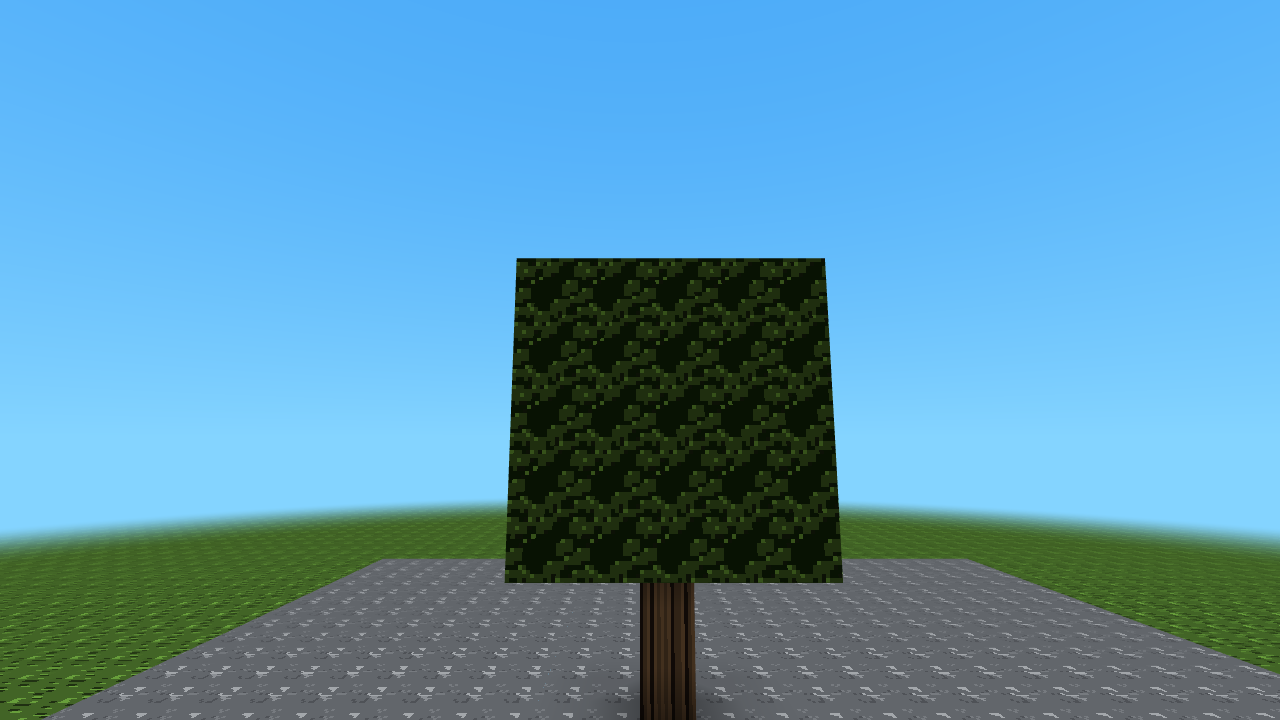
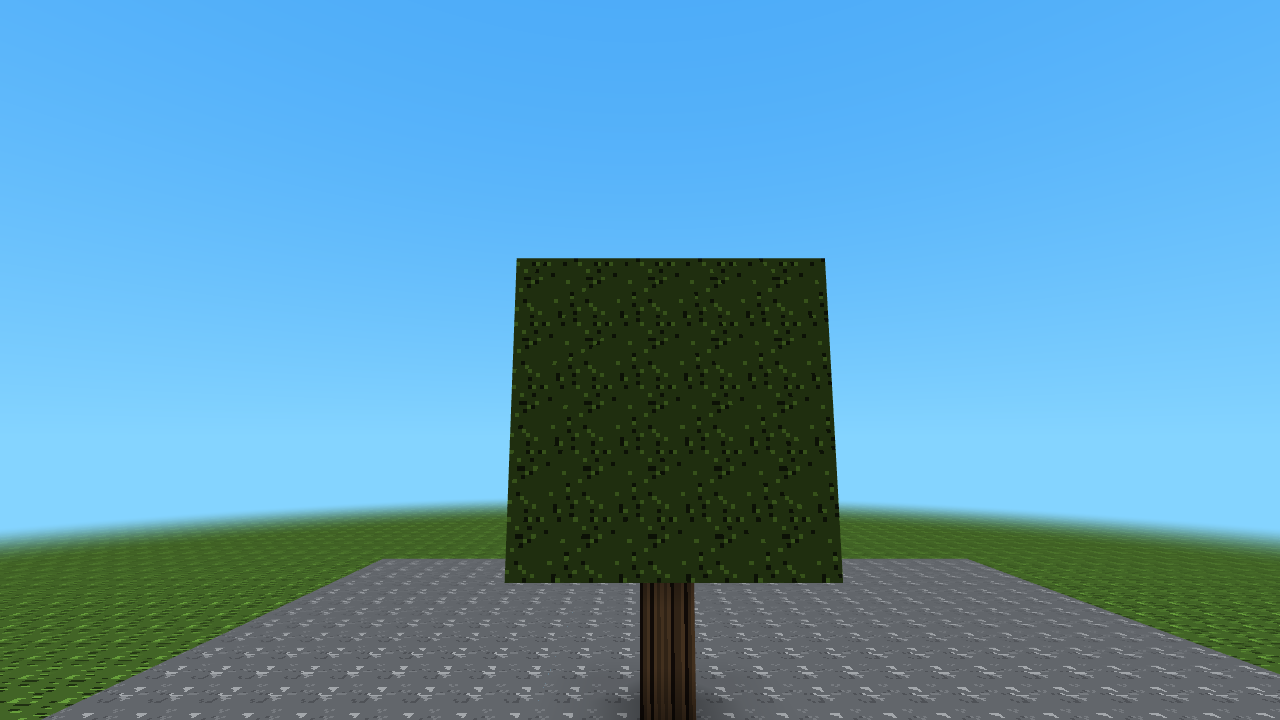
M08c: pack sway masks as uvec4 and fill fast leaves with their own body colour
Claude-Session: https://claude.ai/code/session_01DR2TANX6z4XcX2ac2TvxWj

Changed region(s): [[0.375, 0.3361, 0.6562, 0.825]]

diff --git a/src/render/chunk-renderer.ts b/src/render/chunk-renderer.ts
@@ -22,6 +22,13 @@ import { GLWrapper } from './gl';
 import { settings } from '../engine/settings';
 import { BlockRegistry } from '../world/blocks/registry';
 import { TextureAtlas, CELL_SIZE } from './atlas';
+import {
+  atlasTileIndex,
+  buildLeafFills,
+  buildSwayMasks,
+  type LeafFills,
+  type SwayMasks,
+} from './foliage';
 import { SectionMeshData, MeshBucketData } from '../mesh/greedy';
 import { renderStats } from '../debug/api/core';
 import { wireframeEnabled } from '../debug/api/wireframe';
@@ -57,8 +64,8 @@ uniform int u_waterTile;
 uniform int u_lavaTile;
 uniform float u_swayOn;
 uniform float u_windTime;
-uniform uint u_swayLeaf[128];
-uniform uint u_swayPlant[128];
+uniform uvec4 u_swayLeaf[32];
+uniform uvec4 u_swayPlant[32];
 flat out float v_leaf;
 flat out float v_fluid;
 flat out float v_flow;
@@ -104,8 +111,8 @@ void main() {
   }
   worldPos += normal * (fluid ? 0.0 : float((a_word1 >> ${VERTEX_LAYOUT.wallInsetShift}u) & 1u) / 32.0);
   uint swayTile = a_word1 & ${VERTEX_LAYOUT.tileMask}u;
-  bool leaf = !fluid && ((u_swayLeaf[swayTile >> 5u] >> (swayTile & 31u)) & 1u) == 1u;
-  bool plant = !fluid && ((u_swayPlant[swayTile >> 5u] >> (swayTile & 31u)) & 1u) == 1u;
+  bool leaf = !fluid && ((u_swayLeaf[swayTile >> 7u][(swayTile >> 5u) & 3u] >> (swayTile & 31u)) & 1u) == 1u;
+  bool plant = !fluid && ((u_swayPlant[swayTile >> 7u][(swayTile >> 5u) & 3u] >> (swayTile & 31u)) & 1u) == 1u;
   v_leaf = leaf ? 1.0 : 0.0;
   if (u_swayOn > 0.0 && (leaf || plant)) {
     // Wind: a function of world position and the shared animation clock, so blocks sharing a corner
@@ -175,6 +182,10 @@ flat in float v_flow;
 in vec3 v_normal;
 uniform float u_fluidTime;
 uniform int u_fastLeaves;
+uniform int u_leafFillCount;
+uniform int u_leafFillTile[16];
+uniform vec3 u_leafFillColor[16];
+uniform float u_cellSize;
 uniform highp sampler2D u_sceneDepth;
 uniform mat4 u_inverseViewProj;
 uniform vec2 u_viewport;
@@ -221,8 +232,15 @@ void main() {
   vec2 tileUV = clamp(v_tileOrigin + fract(uv) * tileSize, v_tileOrigin + halfTexel, v_tileOrigin + tileSize - halfTexel);
   vec4 texColor = textureGrad(u_atlasSampler, tileUV, dFdx(uv) * tileSize, dFdy(uv) * tileSize);
   if (u_fastLeaves == 1 && v_leaf > 0.5) {
-    // Fast leaves are opaque cubes: gaps in the sprite become a dark leaf colour.
-    texColor = texColor.a < 0.5 ? vec4(0.11, 0.17, 0.08, 1.0) : vec4(texColor.rgb, 1.0);
+    // Fast leaves are opaque cubes: gaps in the sprite take the leaf texture's own mid-green, which
+    // the tint below multiplies like the rest of the leaf.
+    if (texColor.a < 0.5) {
+      vec2 cell = floor((v_tileOrigin * u_atlasSize - 4.0) / u_cellSize + 0.5);
+      int tile = int(cell.y) * int(u_atlasSize.x / u_cellSize) + int(cell.x);
+      vec3 fill = vec3(0.17, 0.30, 0.13);
+      for (int i = 0; i < 16; i++) if (i < u_leafFillCount && u_leafFillTile[i] == tile) fill = u_leafFillColor[i];
+      texColor = vec4(fill, 1.0);
+    } else texColor = vec4(texColor.rgb, 1.0);
   } else if (u_isCutout == 1 && texColor.a < 0.5) discard;
   // Grass side alpha selects the tinted fringe; its dirt base stays untinted and opaque.
   vec3 tint = mix(v_tint, mix(vec3(1.0), v_tint, texColor.a), v_grassSide);
@@ -333,8 +351,15 @@ export class ChunkRenderer {
   private locWindTime: WebGLUniformLocation;
   private locSwayLeaf: WebGLUniformLocation;
   private locSwayPlant: WebGLUniformLocation;
+  private locLeafFillCount: WebGLUniformLocation;
+  private locLeafFillTile: WebGLUniformLocation;
+  private locLeafFillColor: WebGLUniformLocation;
   private locFastLeaves: WebGLUniformLocation;
-  private swayMasks: { atlas: TextureAtlas; leaf: Uint32Array; plant: Uint32Array } | null = null;
+  private foliage: {
+    atlas: TextureAtlas;
+    sway: SwayMasks;
+    fills: LeafFills;
+  } | null = null;
   private rainFactor = 0;
   private lightningFlash = 0;
   private skyBrightness = 1;
@@ -428,6 +453,9 @@ export class ChunkRenderer {
     this.locSwayLeaf = gl.getUniformLocation(this.program, 'u_swayLeaf')!;
     this.locSwayPlant = gl.getUniformLocation(this.program, 'u_swayPlant')!;
     this.locFastLeaves = gl.getUniformLocation(this.program, 'u_fastLeaves')!;
+    this.locLeafFillCount = gl.getUniformLocation(this.program, 'u_leafFillCount')!;
+    this.locLeafFillTile = gl.getUniformLocation(this.program, 'u_leafFillTile')!;
+    this.locLeafFillColor = gl.getUniformLocation(this.program, 'u_leafFillColor')!;
     const fields = [
       'locFluidTime',
       'locWaterTile',
@@ -463,6 +491,9 @@ export class ChunkRenderer {
       'locWindTime',
       'locSwayLeaf',
       'locSwayPlant',
+      'locLeafFillCount',
+      'locLeafFillTile',
+      'locLeafFillColor',
       'locFastLeaves',
     ];
     this.programLocations = this.programs.map((program) =>
@@ -749,27 +780,16 @@ export class ChunkRenderer {
     if (bucketMesh.lineEbo) this.glWrapper.deleteBuffer(bucketMesh.lineEbo);
   }
 
-  /** Bit masks over atlas tiles of leaves and swaying plants, rebuilt only when the atlas changes. */
-  private getSwayMasks(atlas: TextureAtlas, tileIndex: (name: string) => number) {
-    if (this.swayMasks?.atlas === atlas) return this.swayMasks;
+  /** Sway masks and fast-leaf fill colours, rebuilt only when the atlas changes. */
+  private getFoliage(atlas: TextureAtlas) {
+    if (this.foliage?.atlas === atlas) return this.foliage;
     const registry = BlockRegistry.getInstance();
-    const leaf = new Uint32Array(128);
-    const plant = new Uint32Array(128);
-    for (const id of registry.getAllBlockIds()) {
-      const def = registry.getBlockDefinition(id);
-      if (!def || def.renderLayer !== 'cutout') continue;
-      const target = id.endsWith('_leaves')
-        ? leaf
-        : def.model === 'cross' && id !== 'fire' && id !== 'torch'
-          ? plant
-          : null;
-      const texture = def.textures?.side;
-      if (!target || !texture || !atlas.rects.has(texture)) continue;
-      const tile = tileIndex(texture);
-      target[tile >> 5] = (target[tile >> 5]! | (1 << (tile & 31))) >>> 0;
-    }
-    this.swayMasks = { atlas, leaf, plant };
-    return this.swayMasks;
+    this.foliage = {
+      atlas,
+      sway: buildSwayMasks(registry, atlas),
+      fills: buildLeafFills(registry, atlas),
+    };
+    return this.foliage;
   }
 
   /** Draws one pass (0 opaque, 1 cutout, 2 translucent) over the visible columns gathered by render(). */
@@ -825,19 +845,16 @@ export class ChunkRenderer {
     Object.assign(this, this.programLocations[index]);
     gl.useProgram(this.program);
     gl.uniform1f(this.locFluidTime, this.fluidTime);
-    const tileIndex = (name: string) => {
-      const rect = atlas.rects.get(name)!;
-      return (
-        Math.floor(rect.y / CELL_SIZE) * Math.floor(atlas.width / CELL_SIZE) +
-        Math.floor(rect.x / CELL_SIZE)
-      );
-    };
-    const sway = this.getSwayMasks(atlas, tileIndex);
+    const tileIndex = (name: string) => atlasTileIndex(atlas, name);
+    const { sway, fills } = this.getFoliage(atlas);
     gl.uniform1f(this.locSwayOn, settings.leaves === 'fast' ? 0 : 1);
     gl.uniform1f(this.locWindTime, this.windTime);
-    gl.uniform1uiv(this.locSwayLeaf, sway.leaf);
-    gl.uniform1uiv(this.locSwayPlant, sway.plant);
+    gl.uniform4uiv(this.locSwayLeaf, sway.leaf);
+    gl.uniform4uiv(this.locSwayPlant, sway.plant);
     gl.uniform1i(this.locFastLeaves, settings.leaves === 'fast' ? 1 : 0);
+    gl.uniform1i(this.locLeafFillCount, fills.count);
+    gl.uniform1iv(this.locLeafFillTile, fills.tiles);
+    gl.uniform3fv(this.locLeafFillColor, fills.colors);
     gl.uniform1i(this.locWaterTile, tileIndex('water_0'));
     gl.uniform1i(this.locLavaTile, tileIndex('lava_0'));
     gl.uniform1i(this.locSceneDepth, 4);

diff --git a/src/render/foliage.ts b/src/render/foliage.ts
@@ -1,0 +1,109 @@
+import { TextureAtlas, CELL_SIZE } from './atlas';
+import type { BlockRegistry } from '../world/blocks/registry';
+
+/** Leaf textures that can have their own fast-mode fill colour (fragment uniform arrays are this long). */
+export const MAX_LEAF_FILLS = 16;
+
+/** A colour must cover this share of a leaf's opaque pixels to be its fill colour. */
+const FILL_MIN_SHARE = 0.15;
+
+/** Number of 32-bit words in a sway mask: one bit per atlas tile, 4096 tiles. */
+export const SWAY_MASK_WORDS = 128;
+
+export interface SwayMasks {
+  leaf: Uint32Array;
+  plant: Uint32Array;
+}
+
+export interface LeafFills {
+  /** Atlas tile index of each leaf texture. */
+  tiles: Int32Array;
+  /** rgb in 0..1, three floats per entry. */
+  colors: Float32Array;
+  count: number;
+}
+
+export function atlasTileIndex(atlas: TextureAtlas, name: string): number {
+  const rect = atlas.rects.get(name)!;
+  return (
+    Math.floor(rect.y / CELL_SIZE) * Math.floor(atlas.width / CELL_SIZE) +
+    Math.floor(rect.x / CELL_SIZE)
+  );
+}
+
+/** Bit masks over atlas tiles of leaves and swaying plants (cross-model cutouts except torch and fire). */
+export function buildSwayMasks(registry: BlockRegistry, atlas: TextureAtlas): SwayMasks {
+  const leaf = new Uint32Array(SWAY_MASK_WORDS);
+  const plant = new Uint32Array(SWAY_MASK_WORDS);
+  for (const id of registry.getAllBlockIds()) {
+    const def = registry.getBlockDefinition(id);
+    if (!def || def.renderLayer !== 'cutout') continue;
+    const target = id.endsWith('_leaves')
+      ? leaf
+      : def.model === 'cross' && id !== 'fire' && id !== 'torch'
+        ? plant
+        : null;
+    const texture = def.textures?.side;
+    if (!target || !texture || !atlas.rects.has(texture)) continue;
+    const tile = atlasTileIndex(atlas, texture);
+    target[tile >> 5] = (target[tile >> 5]! | (1 << (tile & 31))) >>> 0;
+  }
+  return { leaf, plant };
+}
+
+/**
+ * The vertex shader reads a mask as `uvec4 mask[32]`: word w sits in vector w >> 2, component w & 3.
+ * The upload is the same contiguous words, so this mirrors the shader's lookup exactly.
+ */
+export function packedMaskHas(mask: Uint32Array, tile: number): boolean {
+  const word = tile >> 5;
+  const vec = word >> 2;
+  const component = word & 3;
+  return ((mask[vec * 4 + component]! >>> (tile & 31)) & 1) === 1;
+}
+
+/**
+ * The colour that replaces see-through pixels of a leaf texture in fast mode: the darkest colour that
+ * covers at least FILL_MIN_SHARE of the opaque pixels, the leaf's own shaded mid-tone rather than a
+ * rare near-black accent. The shader multiplies it by the biome tint like the rest of the leaf.
+ */
+export function buildLeafFills(registry: BlockRegistry, atlas: TextureAtlas): LeafFills {
+  const tiles = new Int32Array(MAX_LEAF_FILLS).fill(-1);
+  const colors = new Float32Array(MAX_LEAF_FILLS * 3);
+  let count = 0;
+  const seen = new Set<string>();
+  for (const id of registry.getAllBlockIds()) {
+    if (!id.endsWith('_leaves')) continue;
+    const texture = registry.getBlockDefinition(id)?.textures?.side;
+    if (!texture || seen.has(texture) || !atlas.rects.has(texture) || count >= MAX_LEAF_FILLS)
+      continue;
+    seen.add(texture);
+    const rect = atlas.rects.get(texture)!;
+    const distinct = new Map<number, { lum: number; n: number }>();
+    let opaque = 0;
+    for (let y = 0; y < rect.h; y++)
+      for (let x = 0; x < rect.w; x++) {
+        const i = ((rect.y + y) * atlas.width + rect.x + x) * 4;
+        const px = atlas.mips[0]!;
+        if (px[i + 3]! < 128) continue;
+        const key = (px[i]! << 16) | (px[i + 1]! << 8) | px[i + 2]!;
+        const entry = distinct.get(key) ?? {
+          lum: 0.2126 * px[i]! + 0.7152 * px[i + 1]! + 0.0722 * px[i + 2]!,
+          n: 0,
+        };
+        entry.n++;
+        distinct.set(key, entry);
+        opaque++;
+      }
+    const ramp = [...distinct.entries()].sort((a, b) => a[1].lum - b[1].lum);
+    const body = ramp.find(([, e]) => e.n >= opaque * FILL_MIN_SHARE);
+    const pick = body ?? ramp.sort((a, b) => b[1].n - a[1].n)[0];
+    if (!pick) continue;
+    tiles[count] = atlasTileIndex(atlas, texture);
+    colors[count * 3] = ((pick[0] >> 16) & 255) / 255;
+    colors[count * 3 + 1] = ((pick[0] >> 8) & 255) / 255;
+    colors[count * 3 + 2] = (pick[0] & 255) / 255;
+    count++;
+  }
+  return { tiles, colors, count };
+}

diff --git a/tests/unit/m08c-glass-foliage.test.ts b/tests/unit/m08c-glass-foliage.test.ts
@@ -11,6 +11,13 @@ import { buildLightLookupTables } from '../../src/world/lighting';
 import { textureGenerators, texturePalettes } from '../../src/render/textures';
 import { STAINED_GLASS_COLORS } from '../../src/render/textures/stained-glass';
 import { FluidAnimationClock } from '../../src/render/fluid-animation';
+import { TextureAtlas } from '../../src/render/atlas';
+import {
+  atlasTileIndex,
+  buildLeafFills,
+  buildSwayMasks,
+  packedMaskHas,
+} from '../../src/render/foliage';
 import type { MeshBucketData } from '../../src/mesh/greedy';
 import type { TextureData } from '../../src/render/textures/noise';
 
@@ -251,5 +258,67 @@ describe('M08c wind clock', () => {
     expect(clock.sample(3000)).toBeCloseTo(1);
     clock.setPaused(true, 3000);
     expect(clock.sample(4000)).toBeCloseTo(1);
+  });
+});
+
+describe('M08c foliage uniforms', () => {
+  const tiles = new Map<string, TextureData>();
+  for (const [name, generate] of Object.entries(textureGenerators)) {
+    if (!generate) continue;
+    const result = generate();
+    if (Array.isArray(result)) result.forEach((t, i) => tiles.set(`${name}_${i}`, t));
+    else tiles.set(name, result);
+  }
+  const atlas = new TextureAtlas(tiles);
+
+  it('packed uvec4 sway lookup answers like the flat uint[128] lookup for every atlas tile', () => {
+    const { leaf, plant } = buildSwayMasks(registry, atlas);
+    const flat = (mask: Uint32Array, tile: number) =>
+      ((mask[tile >> 5]! >>> (tile & 31)) & 1) === 1;
+    let leafTiles = 0;
+    let plantTiles = 0;
+    for (let tile = 0; tile < 4096; tile++) {
+      expect(packedMaskHas(leaf, tile)).toBe(flat(leaf, tile));
+      expect(packedMaskHas(plant, tile)).toBe(flat(plant, tile));
+      if (packedMaskHas(leaf, tile)) leafTiles++;
+      if (packedMaskHas(plant, tile)) plantTiles++;
+    }
+    expect(leafTiles).toBeGreaterThanOrEqual(5);
+    expect(plantTiles).toBeGreaterThan(5);
+    for (const id of ['oak_leaves', 'birch_leaves']) {
+      const tile = atlasTileIndex(atlas, registry.getBlockDefinition(id)!.textures!.side!);
+      expect(packedMaskHas(leaf, tile)).toBe(true);
+      expect(packedMaskHas(plant, tile)).toBe(false);
+    }
+    const grass = atlasTileIndex(atlas, registry.getBlockDefinition('tall_grass')!.textures!.side!);
+    expect(packedMaskHas(plant, grass)).toBe(true);
+    expect(packedMaskHas(leaf, grass)).toBe(false);
+  });
+
+  it('keeps the sway masks within 64 vertex uniform vectors', () => {
+    const { leaf, plant } = buildSwayMasks(registry, atlas);
+    expect((leaf.length + plant.length) / 4).toBe(64);
+  });
+
+  it("fast leaf fill is each leaf texture's darkest body colour, not near-black", () => {
+    const fills = buildLeafFills(registry, atlas);
+    expect(fills.count).toBeGreaterThanOrEqual(5);
+    const birch = atlasTileIndex(
+      atlas,
+      registry.getBlockDefinition('birch_leaves')!.textures!.side!,
+    );
+    const at = fills.tiles.indexOf(birch);
+    expect(at).toBeGreaterThanOrEqual(0);
+    // Birch leaves: #3f7a2c is the body colour; #24481a is a rare accent.
+    expect(fills.colors[at * 3]! * 255).toBeCloseTo(0x3f, 0);
+    expect(fills.colors[at * 3 + 1]! * 255).toBeCloseTo(0x7a, 0);
+    expect(fills.colors[at * 3 + 2]! * 255).toBeCloseTo(0x2c, 0);
+    for (let i = 0; i < fills.count; i++) {
+      const lum =
+        0.2126 * fills.colors[i * 3]! +
+        0.7152 * fills.colors[i * 3 + 1]! +
+        0.0722 * fills.colors[i * 3 + 2]!;
+      expect(lum).toBeGreaterThan(0.1);
+    }
   });
 });

diff --git a/decisions/M08c-glass-foliage.md b/decisions/M08c-glass-foliage.md
@@ -21,12 +21,12 @@
 
 - `settings.leaves: 'fancy' | 'fast'` (default `'fancy'`) in `src/engine/settings.ts`; `setLeaves(mode)` in `src/debug/api/leaves.ts` (registered by one import line in `index.ts`, typed in `core.ts`) calls `WorldManager.setLeaves`.
 - Fancy: cutout leaves, every face drawn, including faces between leaves (unchanged mesher behaviour).
-- Fast: `buildMeshLookupTables(registry, tileResolver, { fastLeaves: true })` marks every `*_leaves` state as an opaque cube. The mesher then hides inner faces and faces of solid neighbours behind leaves, with no mesher change. In the fragment shader, a flat `v_leaf` flag (leaf tile mask) turns transparent pixels into a dark leaf colour (`vec4(0.11, 0.17, 0.08, 1)`, still lit and tinted) and the alpha test is skipped for those fragments, so leaves are opaque cubes. Lighting tables are unchanged: light still passes through leaves with opacity 1.
+- Fast: `buildMeshLookupTables(registry, tileResolver, { fastLeaves: true })` marks every `*_leaves` state as an opaque cube. The mesher then hides inner faces and faces of solid neighbours behind leaves, with no mesher change. In the fragment shader, a flat `v_leaf` flag (leaf tile mask) turns transparent pixels into that leaf texture's own fill colour and the alpha test is skipped for those fragments, so leaves are opaque cubes. The fill colour (`buildLeafFills` in `src/render/foliage.ts`) is the darkest colour that covers at least 15 % of the texture's opaque pixels, i.e. the leaf's shaded body tone rather than a rare near-black accent (birch and pine `#3f7a2c`, oak `#6e6e6e`, acacia `#505050`, rainwood `#3c3c3c`). It goes through the same tint and lighting as the rest of the leaf, so it follows the biome. It is looked up by atlas tile in two small uniform arrays (16 entries); there is a neutral green fallback for a tile not in the list. Lighting tables are unchanged: light still passes through leaves with opacity 1.
 - Changing the setting rebuilds the tables and calls `streamer.invalidateAll()`, which remeshes every loaded section. The setter is a no-op for remeshing when the mode is unchanged. While remeshing, existing fancy meshes briefly draw with the fast fragment path.
 
 ## Waving
 
-- A vertex-shader sway for leaves and plants (cross-model blocks except `torch` and `fire`: grass, flowers, mushrooms, reeds). Which tiles sway comes from two 4096-bit masks over atlas tile indices built from the registry (`getSwayMasks`), uploaded as `uint` uniform arrays; the vertex word layout is unchanged.
+- A vertex-shader sway for leaves and plants (cross-model blocks except `torch` and `fire`: grass, flowers, mushrooms, reeds). Which tiles sway comes from two 4096-bit masks over atlas tile indices built from the registry (`getSwayMasks`), uploaded as two `uvec4[32]` uniform arrays (64 vertex uniform vectors in total, instead of the 256 that two `uint[128]` arrays can take under std packing, so minimum-spec WebGL2 GPUs still link). Word `w` of a mask is component `w & 3` of vector `w >> 2`; the data is the same contiguous words as before, so the classification is unchanged, and a unit test checks the packed lookup against the flat one for every atlas tile. The vertex word layout is unchanged.
 - Displacement depends only on world position and the wind clock `u_windTime`, so vertices at the same position always move together and leaf cubes never tear. Leaves move at most 0.03 blocks horizontally and 0.01 vertically; plants at most 0.04 horizontally at the tip, scaled by `1 − v` of the sprite UV, so their bottom edge (v = 1) stays fixed. Both are within the 0.04 limit.
 - No waving in fast mode (`u_swayOn = 0`).
 - The sway clock is a separate `windAnimation` (a `FluidAnimationClock`, `src/render/fluid-animation.ts`) that holds while `setFluidAnimationPaused(true)` or the simulation pause (`api.pause()`) is active. Deviation from "same clock as setFluidAnimationPaused": the unchanged M12c clear-weather control compares frames with only `api.pause()` set, and plants swaying there pushed its diff to 0.031 (limit 0.005). Existing e2e tests that compare frames with leaves or plants are not edited; results are in the progress notes.

diff --git a/progress/M08c.md b/progress/M08c.md
@@ -24,6 +24,12 @@ Stained glass (8 colours: textures, blocks, items, empty loot, recipes), translu
 
 - decisions/M08c-glass-foliage.md
 
+## Review fix round 1
+
+- Sway masks packed as `uvec4[32]` each (64 uniform vectors in total); unit test compares the packed lookup to the flat one for every atlas tile.
+- Fast leaves fill see-through pixels with the leaf texture's own body colour times the biome tint instead of near-black (`src/render/foliage.ts`).
+- Checked after the change: typecheck, lint, unit, and the M08b and M08c e2e specs (8 passed).
+
 ## Known limitations
 
 - Known 2-core container failure not caused by this task: m04.spec.ts:276 (RD12).
